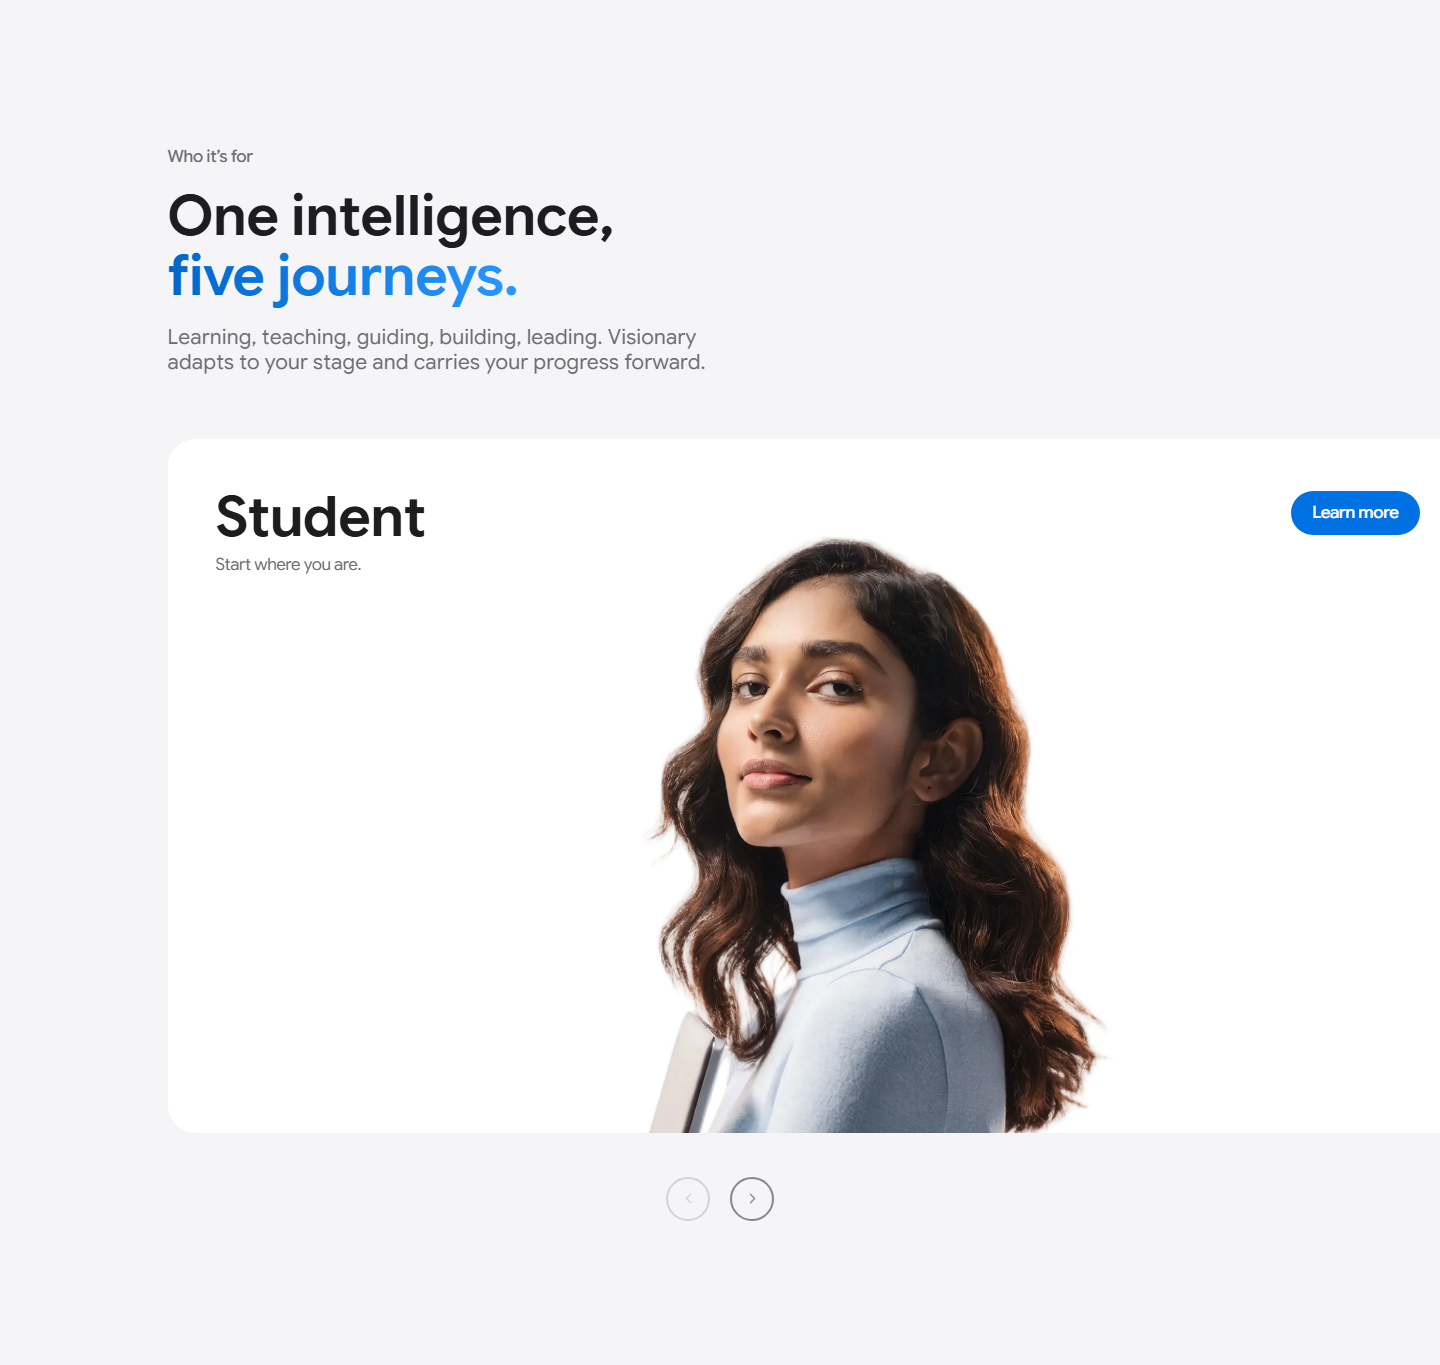
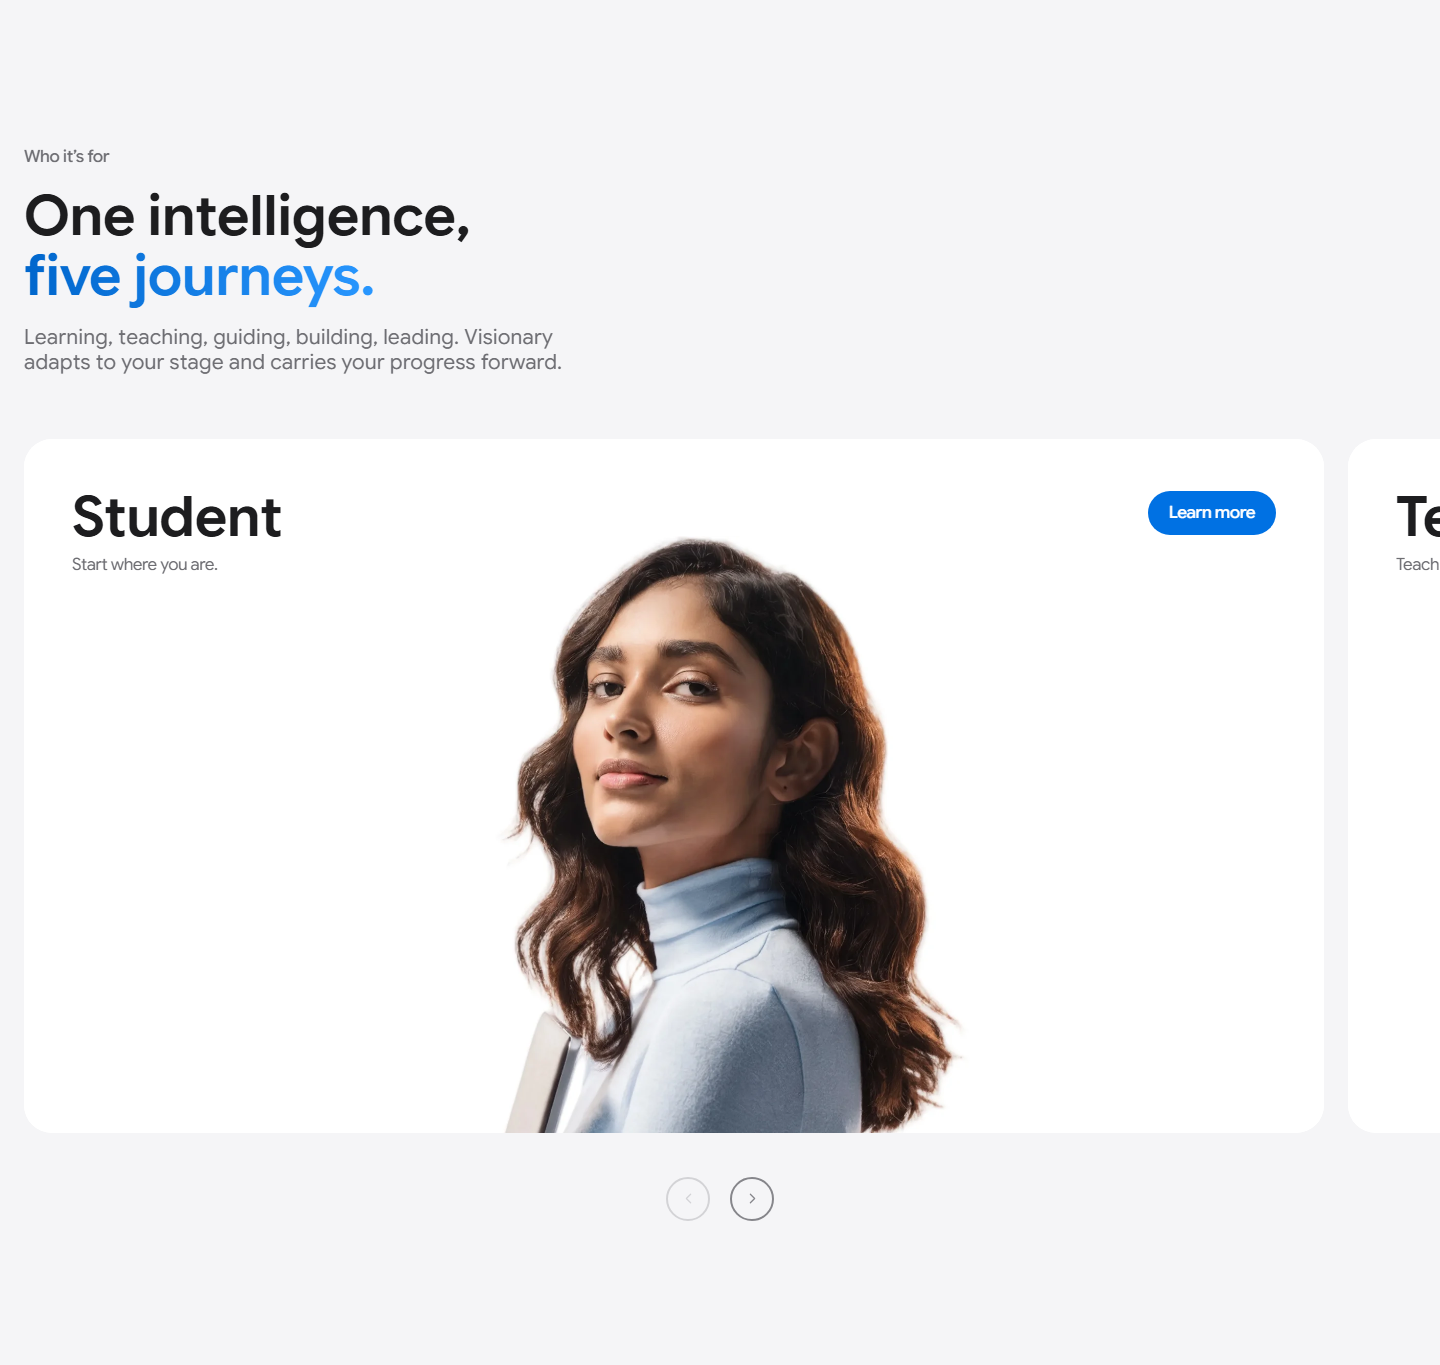
FHE-01 (V10): the Duo slider gets its true inset — near-bleed start, live peek
Senior review of the hero-to-explore flow: the first slide sat at the
old 168px editorial gutter, which CUT the 1300px slide at the right
edge — no peek, the slider's scroll affordance dead. Apple's Duo tile
starts near full-bleed. The header and the track now share one 24px
inset: the slide ends at 92vw with a 116px live peek of the next
journey, and the statement aligns with the slide's left edge (Apple's
line-up header law).

Verified: cardLeft 24, peek 116, headerLeft 24 (getBoundingClientRect
evidence); quality gate PASS; 871/871 tests.

diff --git a/visionary-app/frontend/src/components/landing/persona/premium/PremiumExploreSection.jsx b/visionary-app/frontend/src/components/landing/persona/premium/PremiumExploreSection.jsx
@@ -111,7 +111,7 @@ function PremiumExploreSection({ heading, categories, images, eyebrow, sub, head
     <section ref={ref} data-section="13-explore" className="relative isolate bg-[#f5f5f7] py-16 lg:py-24 [overflow-x:clip] rounded-t-[32px]">
       <ScrollReveal>
         <RevealItem idx={0}>
-          <div className="mx-auto w-full max-w-[1265px] px-6 lg:px-[80px]">
+          <div className="mx-auto w-full px-6 lg:px-6">
             {eyebrow && (
               <p className="text-[17px] font-medium" style={{ color: color.slate }}>
                 {eyebrow}
@@ -153,7 +153,7 @@ function PremiumExploreSection({ heading, categories, images, eyebrow, sub, head
               onPointerCancel={onTrackPointerEnd}
               onClickCapture={onTrackClickCapture}
               onDragStart={(e) => e.preventDefault()}
-              className="flex cursor-grab snap-x snap-mandatory gap-5 overflow-x-auto pb-2 pl-6 pr-6 select-none [scrollbar-width:none] active:cursor-grabbing [&::-webkit-scrollbar]:hidden lg:gap-6 lg:scroll-pl-[max(24px,calc((100vw-1265px)/2+80px))] lg:pl-[max(24px,calc((100vw-1265px)/2+80px))]"
+              className="flex cursor-grab snap-x snap-mandatory gap-5 overflow-x-auto pb-2 pl-6 pr-6 select-none [scrollbar-width:none] active:cursor-grabbing [&::-webkit-scrollbar]:hidden lg:gap-6 lg:scroll-pl-6 lg:pl-6"
             >
               {categories.map((c, index) => (
                 <PremiumExploreCard key={c.slug} category={c} image={images[index]} />
